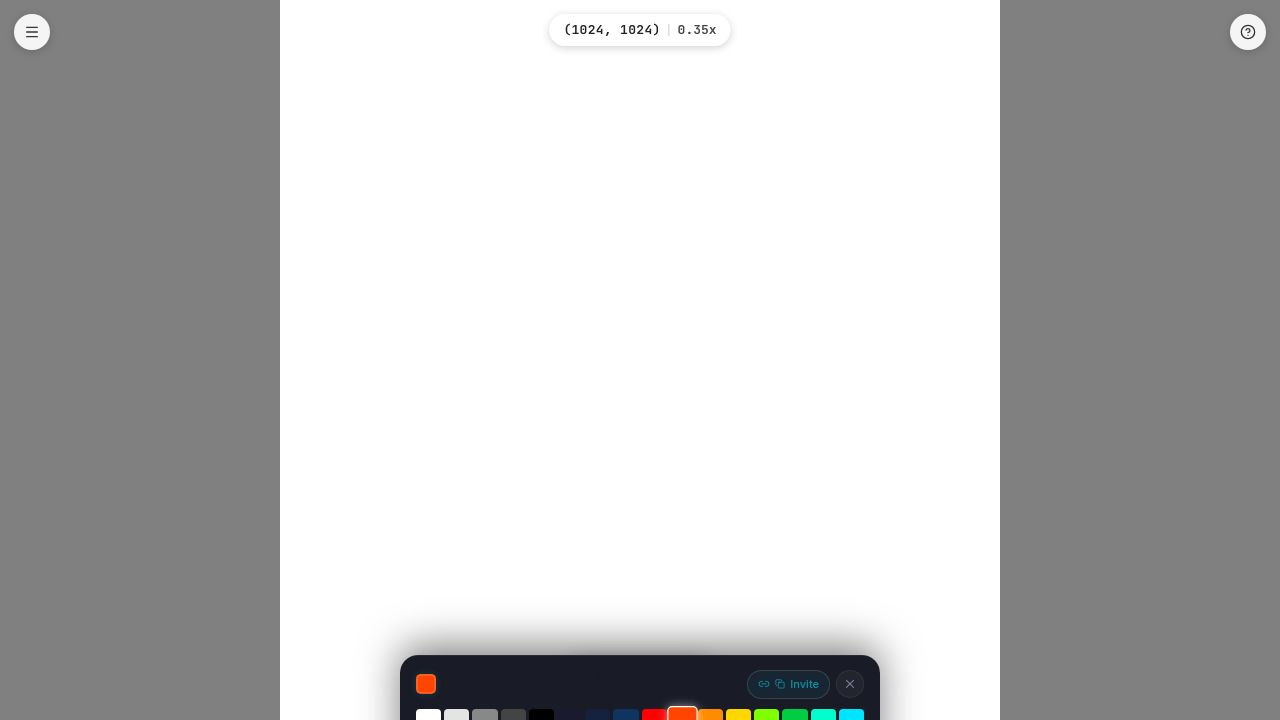
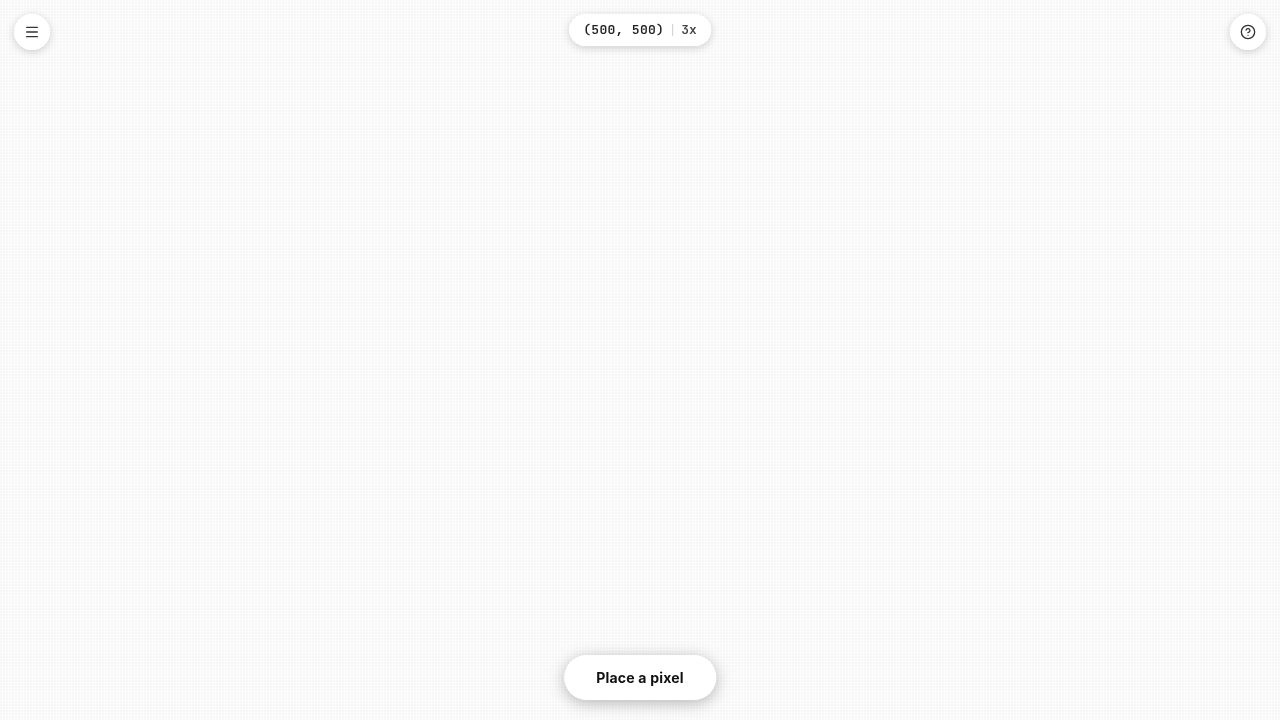
feat: başlangıç zoom 3x, MAX 40x — piksel boyutu r/place standardı

diff --git a/src/hooks/useCanvas.ts b/src/hooks/useCanvas.ts
@@ -4,7 +4,7 @@ import { useIndexedDB } from "./useIndexedDB";
 
 const CANVAS_SIZE  = 1000;
 const MIN_SCALE    = 0.04;
-const MAX_SCALE    = 5;   // 5x max zoom
+const MAX_SCALE    = 40;  // r/place: 40x max zoom
 
 function hexToRgb(hex: string): [number, number, number] {
   const c = hex.replace("#", "");
@@ -21,8 +21,8 @@ function clamp(v: number, lo: number, hi: number) { return Math.min(hi, Math.max
 
 function formatZoom(scale: number): string {
   if (scale >= 10) return `${Math.round(scale)}x`;
-  if (scale >= 1)  return `${scale.toFixed(1)}x`;
-  return `${scale.toFixed(2)}x`;
+  if (scale >= 1)  return `${parseFloat(scale.toFixed(1))}x`;
+  return `${parseFloat(scale.toFixed(2))}x`;
 }
 
 function computeCenterPixel(t: Transform, cw: number, ch: number): PixelCoord {
@@ -118,7 +118,7 @@ export function useCanvas(): UseCanvasReturn {
 
           // ── Pixel grid — fades in at scale >= 2 ──
           if (t.scale >= 2) {
-            const alpha = Math.min(0.25, 0.06 + 0.04 * (t.scale - 2));
+            const alpha = Math.min(0.3, 0.08 + 0.03 * (t.scale - 2));
             ctx.strokeStyle = `rgba(180,180,180,${alpha})`;
             ctx.lineWidth   = 1 / t.scale;
             const x0 = Math.max(0, Math.floor(-t.x / t.scale));
@@ -200,14 +200,14 @@ export function useCanvas(): UseCanvasReturn {
       isLoadedRef.current = true;
       setIsLoaded(true);
 
-      // Initial zoom: fit whole canvas to screen (r/place "Resim 1" standard)
+      // Initial zoom: ~3x centered on canvas center — pixels clearly visible (r/place standard)
       const cw = canvasElRef.current?.offsetWidth  || window.innerWidth;
       const ch = canvasElRef.current?.offsetHeight || window.innerHeight;
-      const scale = clamp(Math.min(cw / CANVAS_SIZE, ch / CANVAS_SIZE), MIN_SCALE, MAX_SCALE);
+      const scale = clamp(3, MIN_SCALE, MAX_SCALE);
       const t: Transform = {
         scale,
-        x: (cw - CANVAS_SIZE * scale) / 2,
-        y: (ch - CANVAS_SIZE * scale) / 2,
+        x: cw / 2 - (CANVAS_SIZE / 2) * scale,
+        y: ch / 2 - (CANVAS_SIZE / 2) * scale,
       };
       applyTransform(t);
 
@@ -238,7 +238,7 @@ export function useCanvas(): UseCanvasReturn {
       const rect   = canvas.getBoundingClientRect();
       const mx     = e.clientX - rect.left;
       const my     = e.clientY - rect.top;
-      const factor = e.deltaY < 0 ? 1.12 : 1 / 1.12;
+      const factor = e.deltaY < 0 ? 1.18 : 1 / 1.18;
       const t      = transformRef.current;
       const ns     = clamp(t.scale * factor, MIN_SCALE, MAX_SCALE);
       const r      = ns / t.scale;